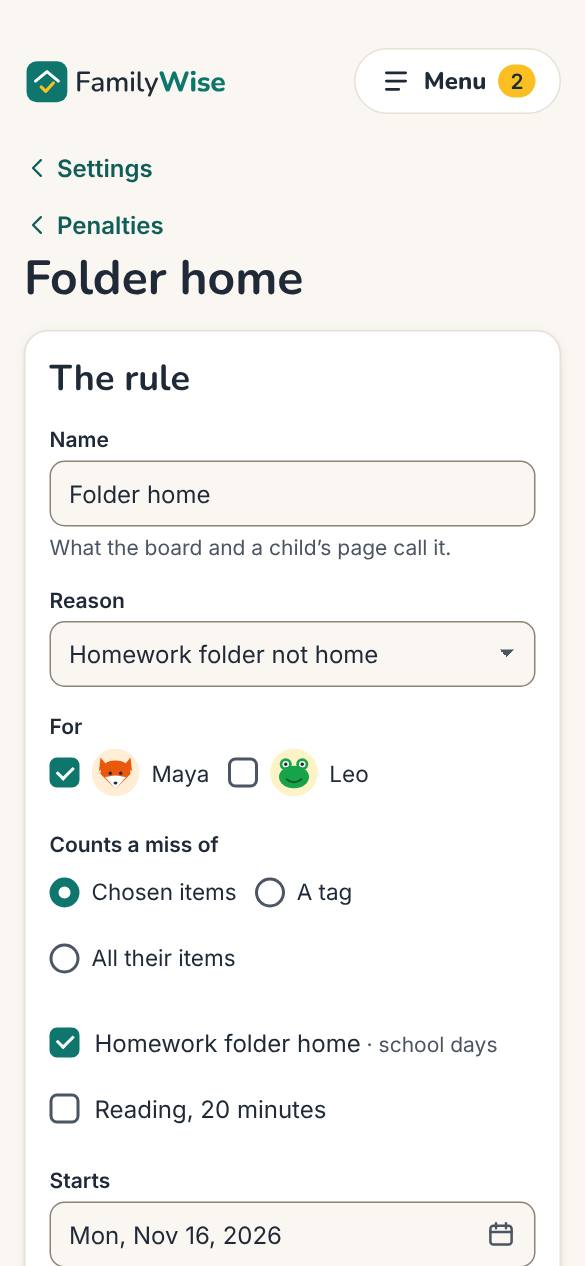
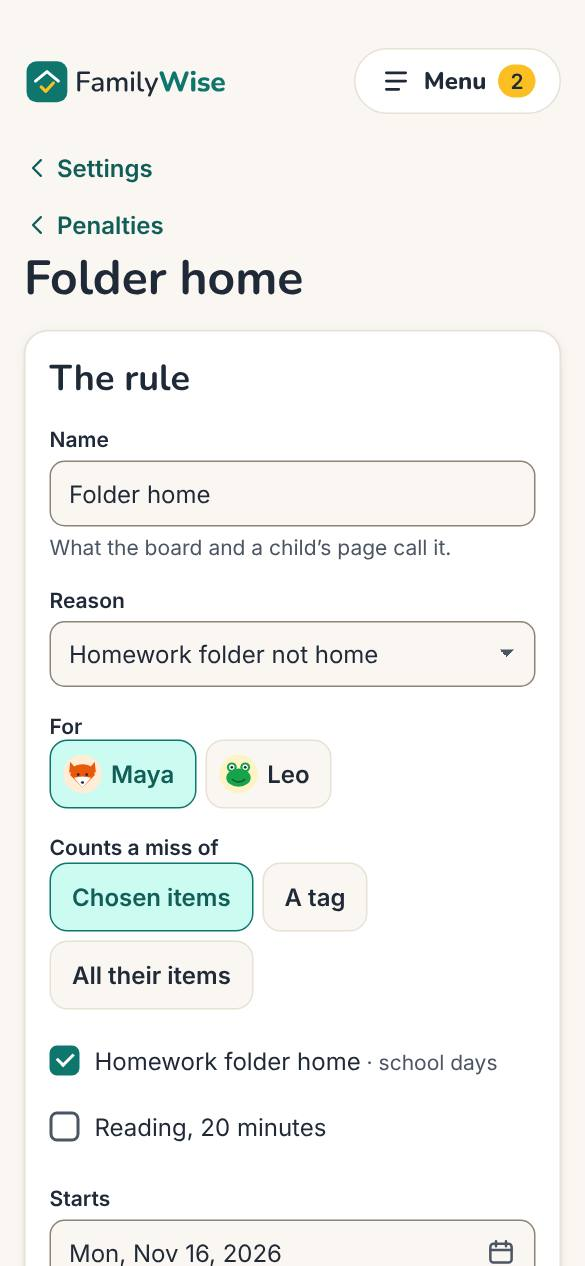
[PTS-10] The rule form's For and Counts a miss of as chips, as the mockup draws them (WP-121)
Claude-Session: https://claude.ai/code/session_019Ro1JkYyQC3Ttb9MT5VuJo

diff --git a/apps/web/app/(admin)/admin/settings/penalties/rules/rule-form.tsx b/apps/web/app/(admin)/admin/settings/penalties/rules/rule-form.tsx
@@ -124,10 +124,11 @@ export function RuleForm({
 
       <fieldset className="fw-field fw-fieldset">
         <legend className="fw-field__label">For</legend>
-        <div className="fw-choices">
+        <div className="fw-seg">
           {people.map((p) => (
-            <label key={p.id} className="fw-choice">
+            <label key={p.id} className="fw-seg__item fw-rule__chip">
               <input
+                className="fw-seg__input"
                 type="checkbox"
                 name="memberId"
                 value={p.id}
@@ -138,7 +139,7 @@ export function RuleForm({
                 name={p.displayName}
                 avatarKey={p.avatarKey}
                 color={p.color}
-                size={32}
+                size={26}
                 decorative
               />
               {p.displayName}
@@ -154,10 +155,11 @@ export function RuleForm({
 
       <fieldset className="fw-field fw-fieldset">
         <legend className="fw-field__label">Counts a miss of</legend>
-        <div className="fw-choices">
+        <div className="fw-seg">
           {SCOPES.map((s) => (
-            <label key={s.scope} className="fw-choice">
+            <label key={s.scope} className="fw-seg__item">
               <input
+                className="fw-seg__input"
                 type="radio"
                 name="scope"
                 value={s.scope}

diff --git a/packages/ui/src/ui.css b/packages/ui/src/ui.css
@@ -8315,6 +8315,10 @@ details:not([open]) > .fw-fold__head .fw-fold__count {
   color: var(--missed-text);
   font-weight: 600;
 }
+.fw-rule__chip {
+  gap: 6px;
+  padding-left: 8px;
+}
 .fw-rule__items {
   display: flex;
   flex-direction: column;
